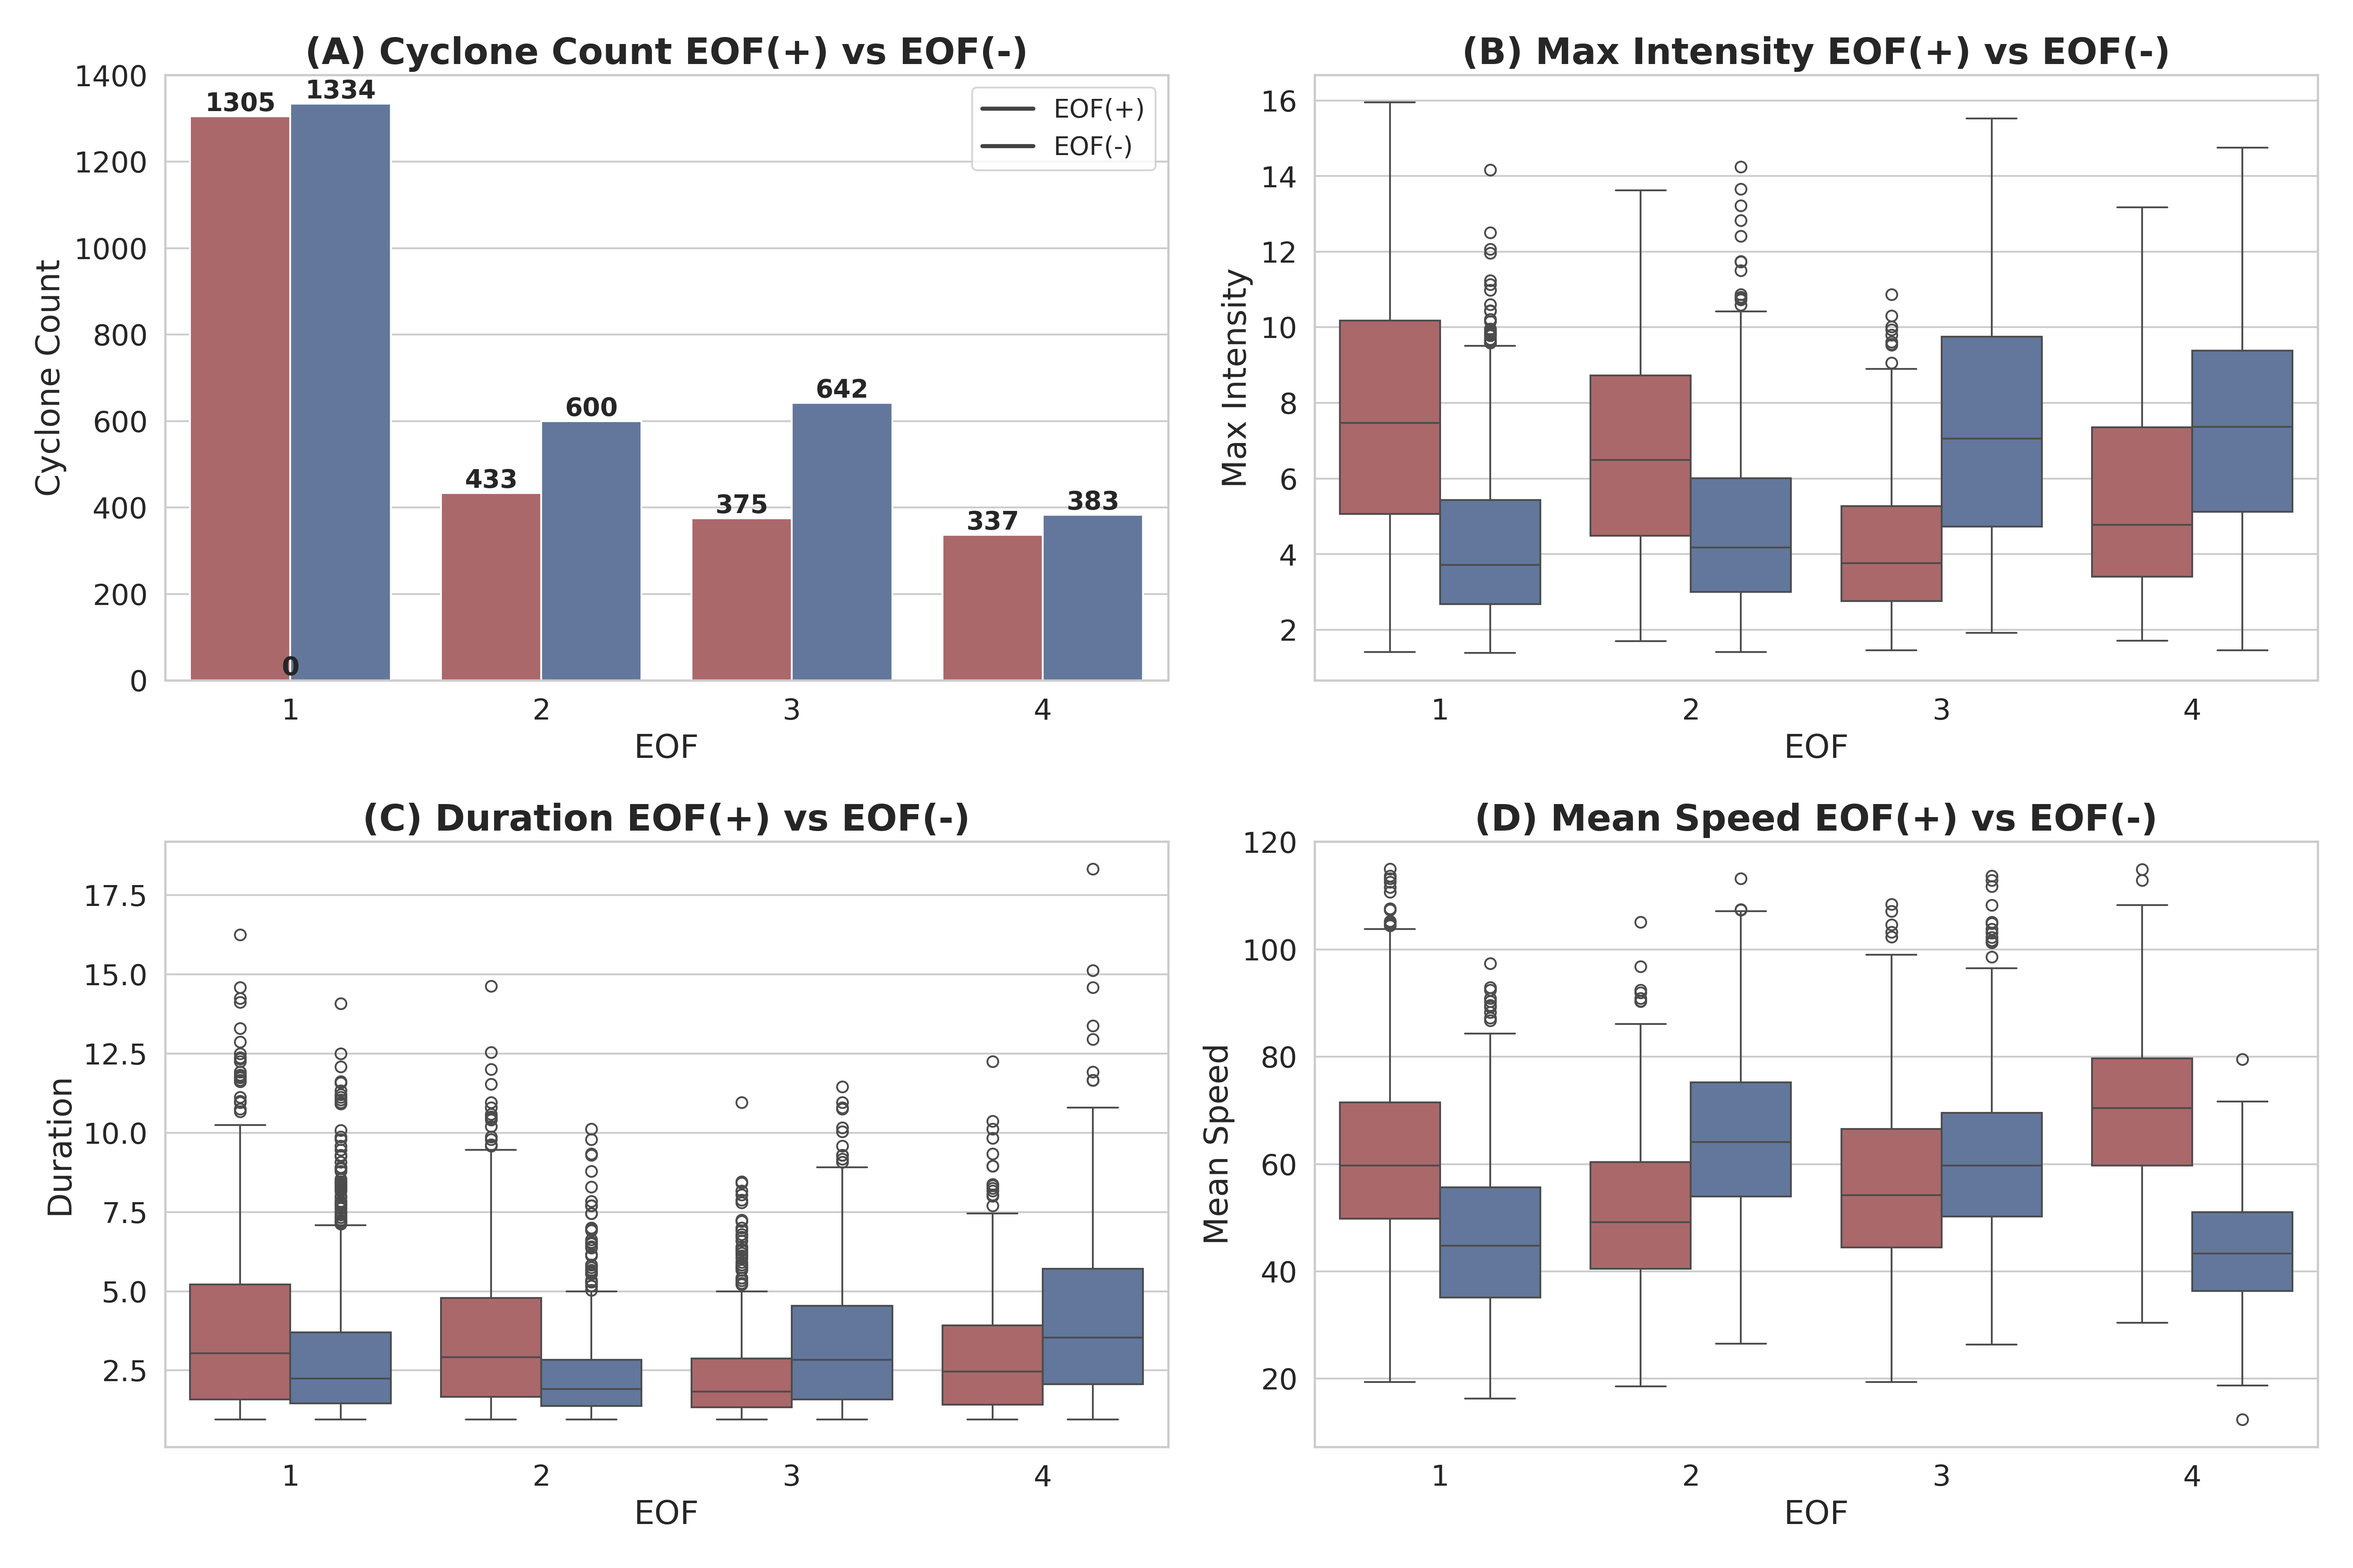
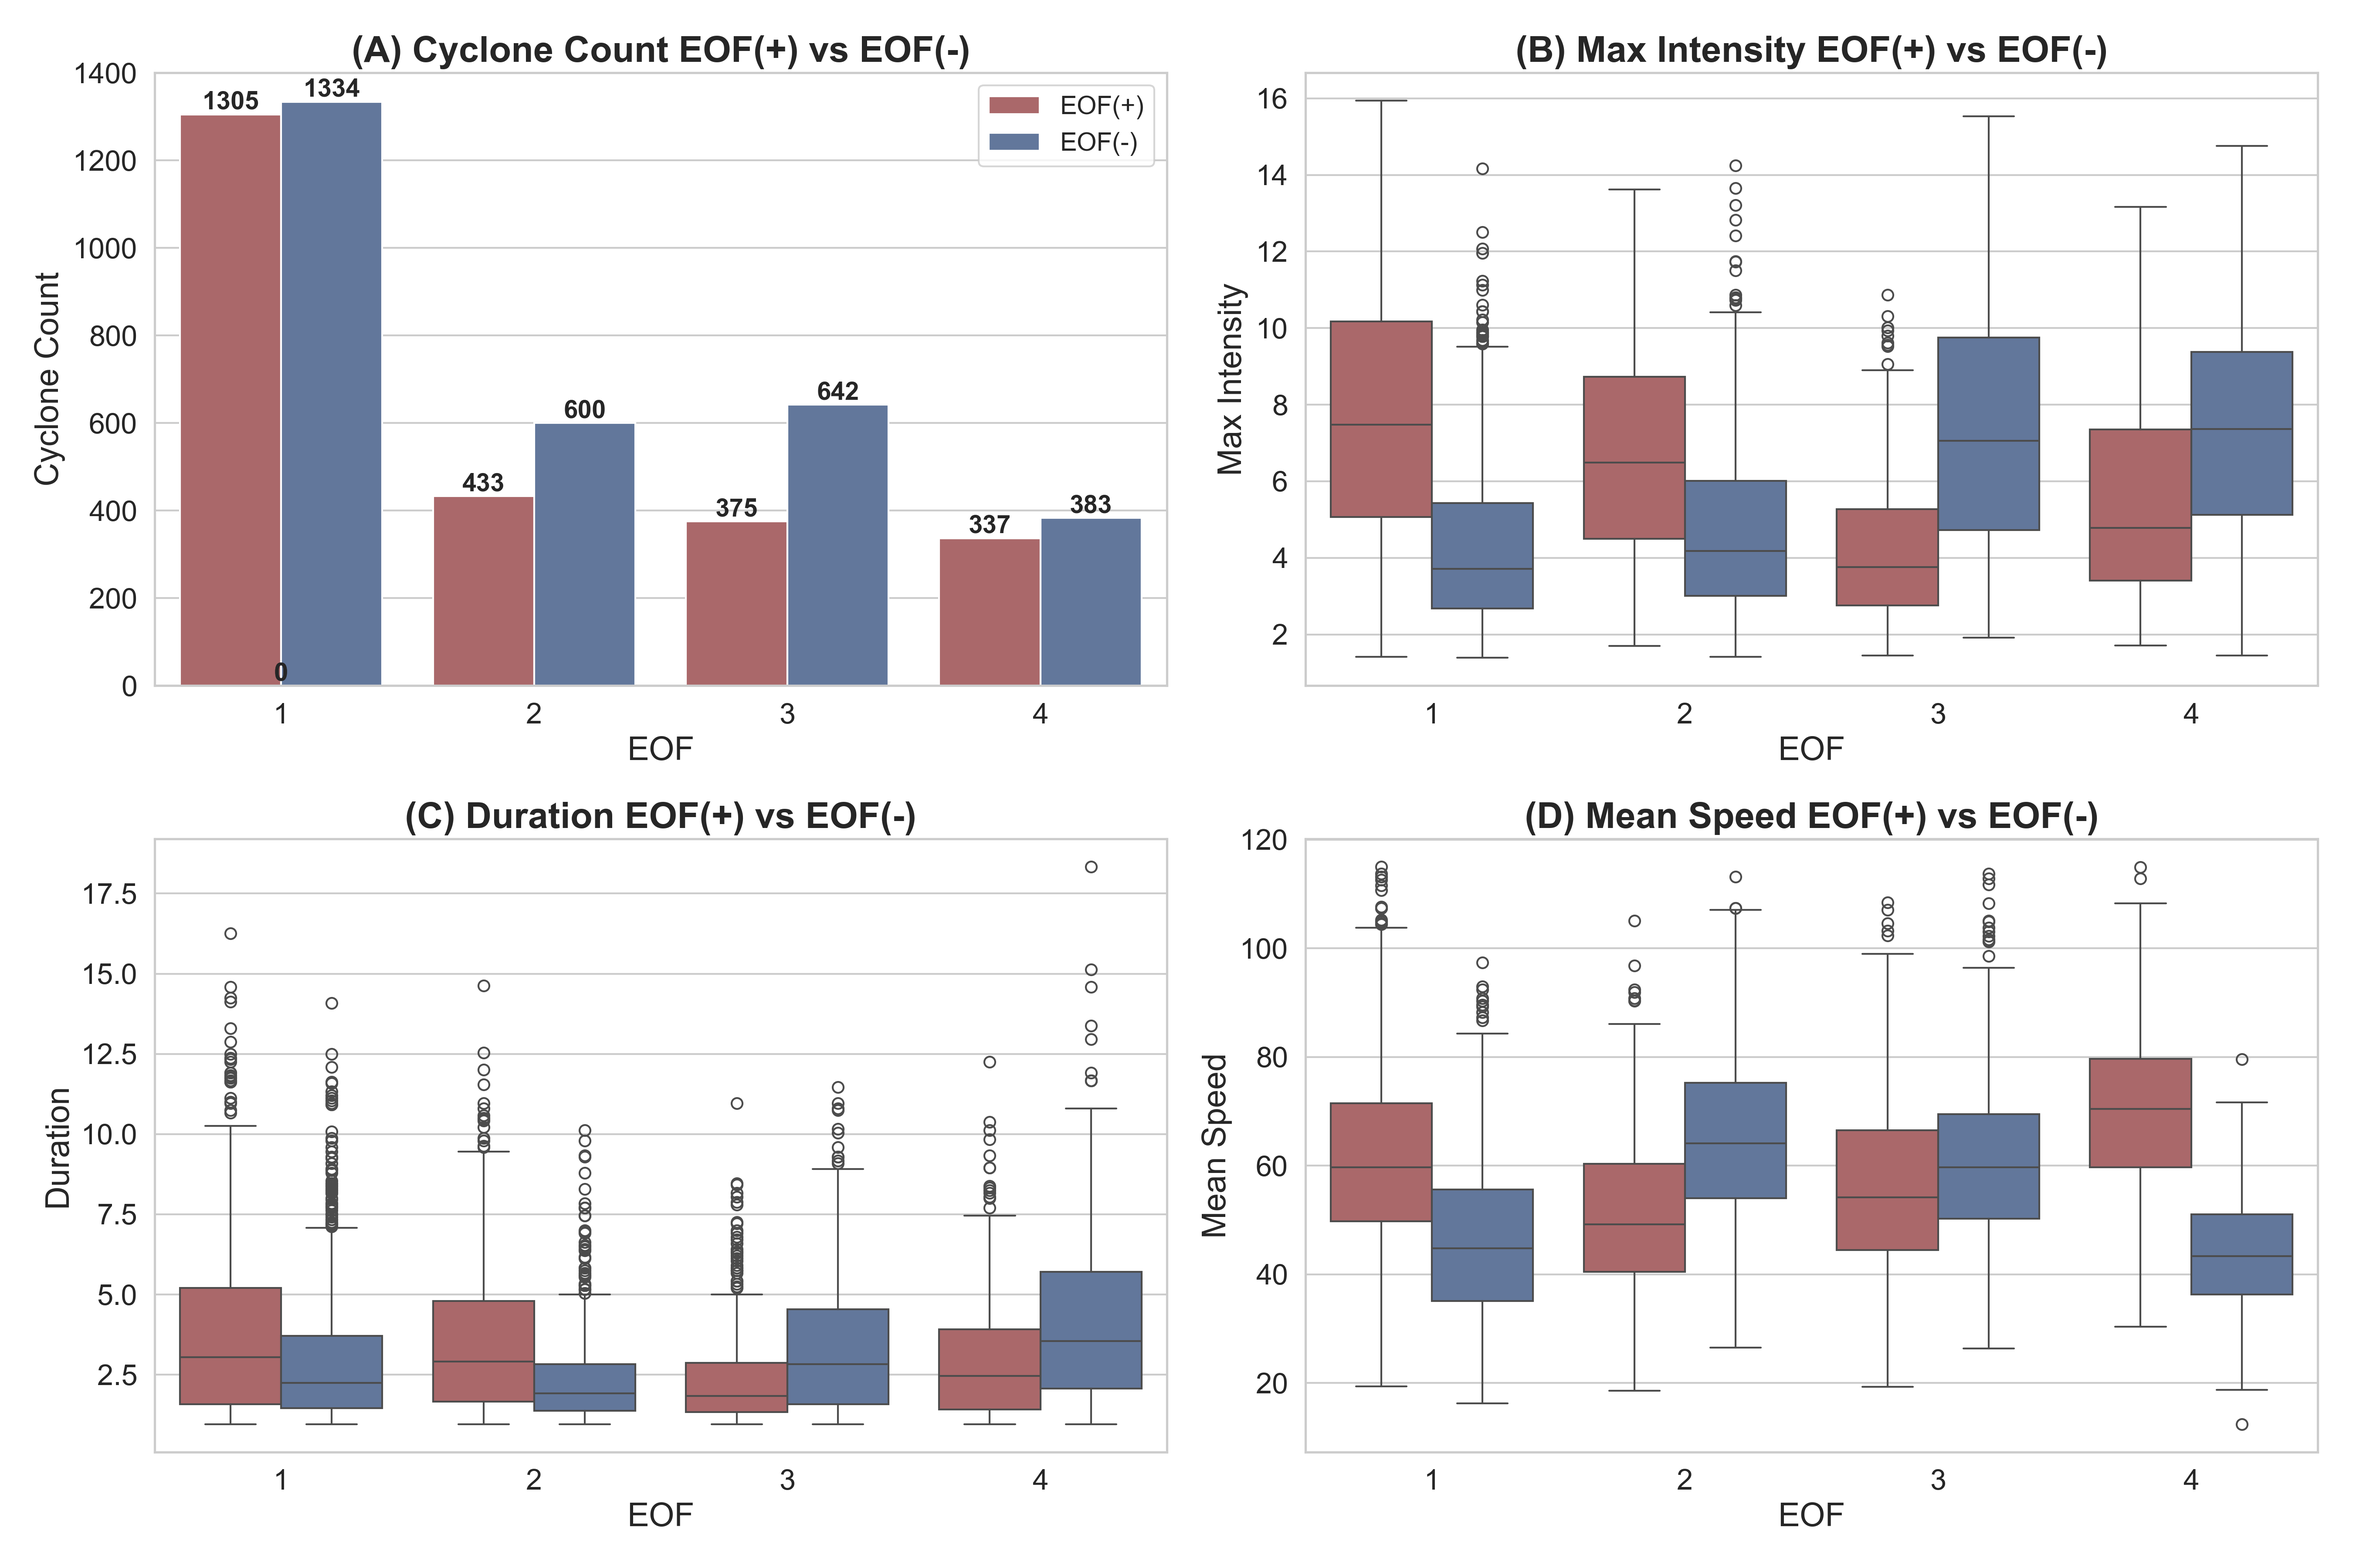
fixing labels

diff --git a/manuscript_lec_climatology/eof_cyclone_statistics_q10_q90.py b/manuscript_lec_climatology/eof_cyclone_statistics_q10_q90.py
@@ -151,19 +151,10 @@ cyclone_count_df = pd.concat([
     data["q10"]["cyclone_stats"].groupby("dominant_eof").size().reset_index(name="cyclone_count").assign(q="q10")
 ])
 
-# **Painel 2x2: Comparação de q90 vs q10 (Número de ciclones, Intensidade, Duração, Velocidade)**
-fig, axes = plt.subplots(2, 2, figsize=(18, 12))
-
-# Definir as cores personalizadas para q90 e q10
-q90_color = season_colors['DJF']  # Vermelho
-q10_color = season_colors['JJA']  # Azul
-custom_palette = [q90_color, q10_color]
-
 # **Substituir as chaves "q90" → "EOF(+)" e "q10" → "EOF(-)" no dicionário data**
 data["EOF(+)"] = data.pop("q90")
 data["EOF(-)"] = data.pop("q10")
 
-# **Variáveis a serem analisadas**
 metrics = {
     "cyclone_count": cyclone_count_df,
     "max_intensity": pd.concat([data["EOF(+)"]["cyclone_stats"].assign(q="EOF(+)"),
@@ -173,6 +164,16 @@ metrics = {
     "mean_speed": pd.concat([data["EOF(+)"]["speed_stats"].assign(q="EOF(+)"),
                              data["EOF(-)"]["speed_stats"].assign(q="EOF(-)")])
 }
+
+# **Garantir que a coluna 'q' tenha os valores corrigidos**
+for key in ["cyclone_count", "max_intensity", "duration", "mean_speed"]:
+    metrics[key]["q"] = metrics[key]["q"].replace({"q90": "EOF(+)", "q10": "EOF(-)"})
+
+# **Painel 2x2: Comparação de EOF(+) vs EOF(-)**
+fig, axes = plt.subplots(2, 2, figsize=(18, 12))
+
+# Definir a paleta de cores com rótulos corrigidos
+custom_palette = {"EOF(+)": season_colors['DJF'], "EOF(-)": season_colors['JJA']}
 
 # Loop para gerar cada subplot
 for i, (var, df) in enumerate(metrics.items()):
@@ -197,16 +198,17 @@ for i, (var, df) in enumerate(metrics.items()):
     # **Configuração de título, eixos e rótulos**
     ax.set_title(f'({chr(65 + i)}) {var.replace("_", " ").title()} EOF(+) vs EOF(-)', 
                  fontsize=title_fontsize, fontweight='bold')
-    ax.set_xlabel("EOF", fontsize=ylabel_fontsize)  # **Adicionar "EOF" como rótulo do eixo X**
+    ax.set_xlabel("EOF", fontsize=ylabel_fontsize)
     ax.set_ylabel(var.replace("_", " ").title(), fontsize=ylabel_fontsize)
     ax.tick_params(axis='x', labelsize=tick_labelsize)
     ax.tick_params(axis='y', labelsize=tick_labelsize)
 
-    # **Manter a legenda apenas no primeiro gráfico**
+    # **Manter a legenda apenas no primeiro gráfico e corrigir os rótulos e cores**
     if i == 0:
-        ax.legend(title=None, fontsize=legend_fontsize, loc="upper right", labels=["EOF(+)", "EOF(-)"])
+        handles, labels = ax.get_legend_handles_labels()
+        ax.legend(handles, ["EOF(+)", "EOF(-)"], title=None, fontsize=legend_fontsize, loc="upper right")
     else:
-        ax.legend_.remove()  # Remover legenda dos outros gráficos
+        ax.legend_.remove()
 
 plt.tight_layout()
 plt.savefig(os.path.join(output_dir, 'panel_2x2_metrics_q90_vs_q10.png'), dpi=300)
